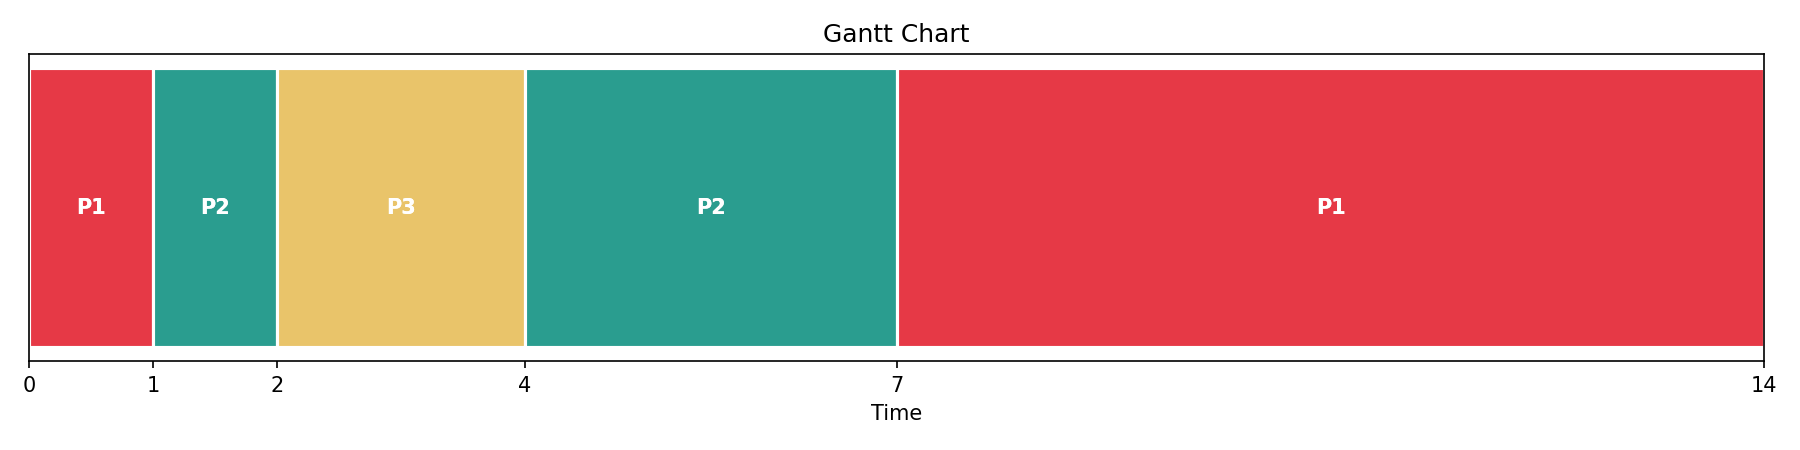
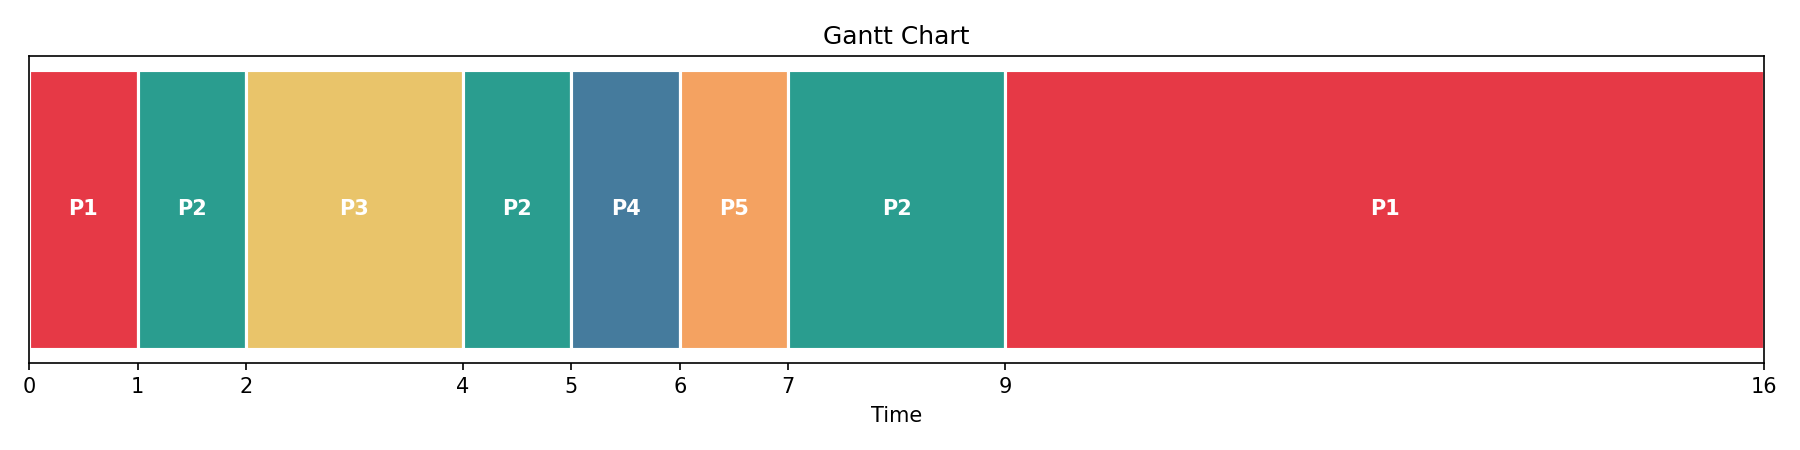
optimizing sjf_preemptive function

diff --git a/schedulers_simulator/SJF.py b/schedulers_simulator/SJF.py
@@ -1,34 +1,16 @@
-# Inputs :
-# Type of scheduler + no of Processes ready to run currently + required information about each process according to the scheduler type.
-# A new process can be added dynamically while the scheduler is running.
-
-# Note : Don't ask the user for unused info
-# Example: If the user chose FCFS scheduler no need to ask him what is the priority numbers.
-
-# Operation:
-# • A live scheduler is run with each 1 unit of time mapped to 1 second
-# • Remaining burst time table is updated as time progresses.
-# • An option to run the currently existing processes only without live scheduling must be available.
-# • Your project must be built, and you must generate a ready to run executable file
-# • You must deliver a GUI desktop application.
-
-# Outputs:
-# • Timeline showing the order and time taken by each process (Gantt Chart) drawn live.
-# • Average waiting time and average turnaround time
-# • Remaining burst time updated table live
-
 from Process import Process
 from gantt_chart import redraw_gantt
 import matplotlib.pyplot as plt
 import time
 import copy 
+import bisect
 from queue import Queue
 
 def push_arrived_process(processes: list[Process], ready_queue: list[Process]):
     i = 0 
     while i < len(processes):
         if(processes[i].arrival_time == 0):
-            ready_queue.append(processes[i])
+            bisect.insort(ready_queue, processes[i], key=lambda x: (x.burst_time, x.num))
             processes.pop(i)
             continue
         i+=1
@@ -68,9 +50,6 @@ def sjf_preemptive(processes: list[Process], new_process_queue = None, live_sim:
         # Checking for arrived processes
         push_arrived_process(processes, ready_queue)
 
-        # Sorting the ready_queue according least remaining burst time
-        ready_queue = sorted(ready_queue, key=lambda x: (x.burst_time, x.num)) # type: ignore
-
         # Skip idle cases
         if not ready_queue:
             time_counter += 1
@@ -90,14 +69,7 @@ def sjf_preemptive(processes: list[Process], new_process_queue = None, live_sim:
         else:
             history.append((running_process.num, time_counter - 1, time_counter))
 
-        # # Computing waiting time for every process
-        # i = 1
-        # while i < len(ready_queue):
-        #     ready_queue[i].waiting_time += 1
-        #     i+=1
-
         if live_sim:
-            # [FIX] Print the UI FIRST so the pause menu doesn't get buried underneath it
             print(f"\n{'─' * 40}")
             print(f"  ⏱  Time : {time_counter}")
             print(f"{'─' * 40}")

diff --git a/schedulers_simulator/main.py b/schedulers_simulator/main.py
@@ -176,11 +176,6 @@ def main():
 
         stop_event.set()
 
-        #need to release the input lock
-        # print("\n [Simulation Complete] Press 'Enter' to view the final chart...")
-
-        # listener.join()
-
         print(f"\nAverage Turnaround Time : {att:.2f} sec")
         print(f"Average Waiting Time    : {awt:.2f} sec\n")
         print(f"Close the chart window to continue.")